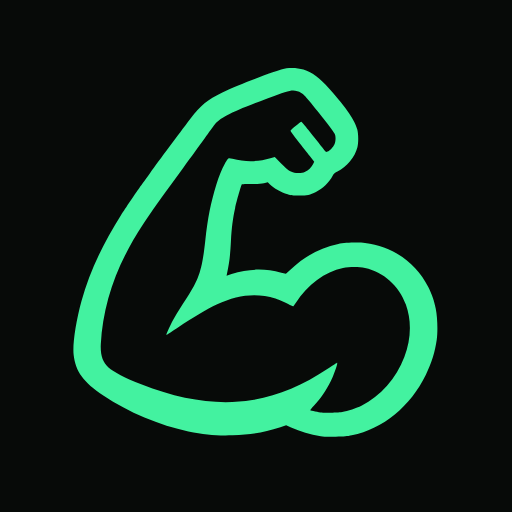
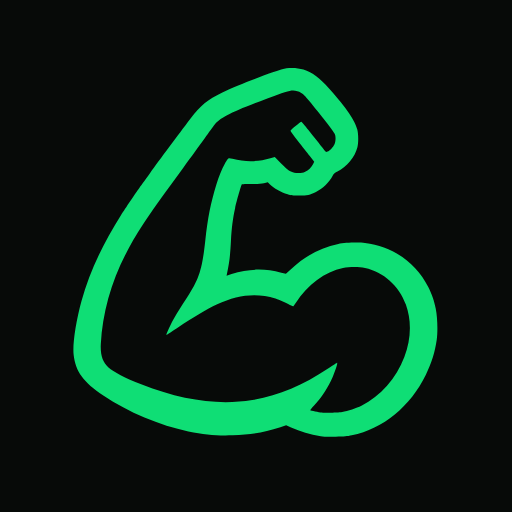
Add files via upload

Changed region(s): [[0.125, 0.125, 0.875, 0.875]]

diff --git a/index.html b/index.html
@@ -14,15 +14,17 @@
 <link rel="icon" type="image/png" sizes="32x32" href="favicon-32.png">
 <link rel="manifest" href="manifest.webmanifest">
 <style>
-  html, body { margin: 0; height: 100%; background: #070a08; overflow: hidden; overscroll-behavior: none; }
-  /* the app sits between the clock and the home bar; the strips around it stay the app's dark colour */
-  #app { position: fixed; left: 0; top: env(safe-area-inset-top); width: 100%;
-         height: calc(100% - env(safe-area-inset-top) - env(safe-area-inset-bottom));
+  html, body { margin: 0; background: #070a08; overscroll-behavior: none; }
+  /* the app fills the whole screen and keeps clear of the clock and the home bar by itself.
+     Not "position: fixed": in iPhone Home Screen apps that gets cut off at the bottom. */
+  html { height: 100vh; overflow: hidden; }
+  body { height: 100%; overflow: hidden; position: relative; }
+  #app { position: absolute; left: 0; top: 0; width: 100%; height: 100%;
          border: 0; display: block; background: #070a08; opacity: 0; transition: opacity .3s; }
   #app.on { opacity: 1; }
-  #msg { position: fixed; inset: 0; display: grid; place-items: center; padding: 24px; color: #91a69a;
+  #msg { position: absolute; inset: 0; display: grid; place-items: center; padding: 24px; color: #91a69a;
          font: 15px/1.5 system-ui, sans-serif; text-align: center; }
-  .spin { width: 28px; height: 28px; border-radius: 50%; border: 3px solid #1d2a23; border-top-color: #43f2a0; animation: s .8s linear infinite; }
+  .spin { width: 28px; height: 28px; border-radius: 50%; border: 3px solid #1d2a23; border-top-color: #08e280; animation: s .8s linear infinite; }
   @keyframes s { to { transform: rotate(360deg); } }
 </style>
 </head>
@@ -34,6 +36,8 @@
   const APP_URL = 'https://script.google.com/macros/s/AKfycbzlpPxWGbhcor9EL_q-4M5pMbaze4BMUYm9g_Bi8xyAtqGm3BTsbTZYMCYYygIA-9-4BA/exec';
 
   const app = document.getElementById('app'), msg = document.getElementById('msg');
+  // opened in a normal Safari tab (not from the Home Screen): fit between Safari's bars instead
+  if (!(navigator.standalone || matchMedia('(display-mode: standalone)').matches)) document.documentElement.style.height = '100dvh';
   if (!/^https:\/\/script\.google\.com\/.+\/exec/.test(APP_URL)) {
     msg.textContent = 'Paste your Apps Script /exec link into index.html (the APP_URL line).';
   } else {
